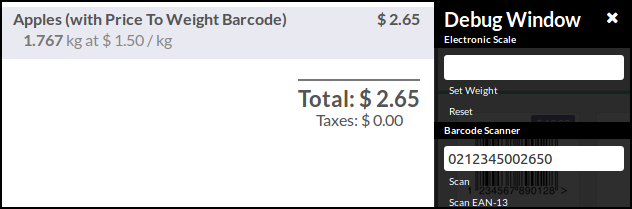
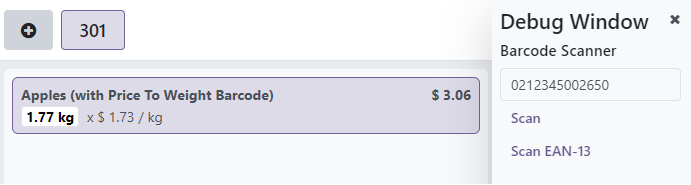
[MIG] pos_price_to_weight: Migration to 18.0

diff --git a/pos_price_to_weight/static/description/index.html b/pos_price_to_weight/static/description/index.html
@@ -367,72 +367,57 @@ ul.auto-toc {
 !! This file is generated by oca-gen-addon-readme !!
 !! changes will be overwritten.                   !!
 !!!!!!!!!!!!!!!!!!!!!!!!!!!!!!!!!!!!!!!!!!!!!!!!!!!!
-!! source digest: sha256:560fba5744d4ecfa61a34ce39fd3a7467f7f6296c1b76f2c3153127150a0f4e0
+!! source digest: sha256:4e53c60a9d81e5b3291f81f5a4ec69fd122d4b72eda6beb8a999c1f1bb122db6
 !!!!!!!!!!!!!!!!!!!!!!!!!!!!!!!!!!!!!!!!!!!!!!!!!!!! -->
-<p><a class="reference external image-reference" href="https://odoo-community.org/page/development-status"><img alt="Beta" src="https://img.shields.io/badge/maturity-Beta-yellow.png" /></a> <a class="reference external image-reference" href="http://www.gnu.org/licenses/agpl-3.0-standalone.html"><img alt="License: AGPL-3" src="https://img.shields.io/badge/licence-AGPL--3-blue.png" /></a> <a class="reference external image-reference" href="https://github.com/OCA/pos/tree/16.0/pos_price_to_weight"><img alt="OCA/pos" src="https://img.shields.io/badge/github-OCA%2Fpos-lightgray.png?logo=github" /></a> <a class="reference external image-reference" href="https://translation.odoo-community.org/projects/pos-16-0/pos-16-0-pos_price_to_weight"><img alt="Translate me on Weblate" src="https://img.shields.io/badge/weblate-Translate%20me-F47D42.png" /></a> <a class="reference external image-reference" href="https://runboat.odoo-community.org/builds?repo=OCA/pos&amp;target_branch=16.0"><img alt="Try me on Runboat" src="https://img.shields.io/badge/runboat-Try%20me-875A7B.png" /></a></p>
-<p>This module extends Odoo Point Of Sale features, to allow to scan barcode
-with price and to compute according quantity.</p>
+<p><a class="reference external image-reference" href="https://odoo-community.org/page/development-status"><img alt="Beta" src="https://img.shields.io/badge/maturity-Beta-yellow.png" /></a> <a class="reference external image-reference" href="http://www.gnu.org/licenses/agpl-3.0-standalone.html"><img alt="License: AGPL-3" src="https://img.shields.io/badge/licence-AGPL--3-blue.png" /></a> <a class="reference external image-reference" href="https://github.com/OCA/pos/tree/18.0/pos_price_to_weight"><img alt="OCA/pos" src="https://img.shields.io/badge/github-OCA%2Fpos-lightgray.png?logo=github" /></a> <a class="reference external image-reference" href="https://translation.odoo-community.org/projects/pos-18-0/pos-18-0-pos_price_to_weight"><img alt="Translate me on Weblate" src="https://img.shields.io/badge/weblate-Translate%20me-F47D42.png" /></a> <a class="reference external image-reference" href="https://runboat.odoo-community.org/builds?repo=OCA/pos&amp;target_branch=18.0"><img alt="Try me on Runboat" src="https://img.shields.io/badge/runboat-Try%20me-875A7B.png" /></a></p>
+<p>This module extends Odoo Point Of Sale features, to allow to scan
+barcode with price and to compute according quantity.</p>
 <p>In Odoo by default, there are three types of barcode rules for products.</p>
 <ul class="simple">
-<li>‘Unit Product’ (<tt class="docutils literal">type=product</tt>). Scanning a product will add a unit of this
-product to the current order.</li>
-<li>‘Priced product’ (<tt class="docutils literal">type=price</tt>). A price is extracted from the barcode, and
-a new line with the given price and a quantity = 1 is added to the current
-order.</li>
-<li>‘Weighted product’ (<tt class="docutils literal">type=weight</tt>). A weight is extracted from the barcode,
-and a new line with the given weight, and a computed price
+<li>‘Unit Product’ (<tt class="docutils literal">type=product</tt>). Scanning a product will add a unit
+of this product to the current order.</li>
+<li>‘Priced product’ (<tt class="docutils literal">type=price</tt>). A price is extracted from the
+barcode, and a new line with the given price and a quantity = 1 is
+added to the current order.</li>
+<li>‘Weighted product’ (<tt class="docutils literal">type=weight</tt>). A weight is extracted from the
+barcode, and a new line with the given weight, and a computed price
 (quantity * Unit price) is added to the current order.</li>
 </ul>
 <p>This module add a new option:</p>
 <ul class="simple">
-<li>‘Priced Product (Computed Weight)’ (<tt class="docutils literal">type=price_to_weight</tt>). A price is
-extracted from the barcode, and a new line with the given price, and a
-computed quantity (Price / Unit Price) is added to the current order.</li>
+<li>‘Priced Product (Computed Weight)’ (<tt class="docutils literal">type=price_to_weight</tt>). A price
+is extracted from the barcode, and a new line with the given price,
+and a computed quantity (Price / Unit Price) is added to the current
+order.</li>
 </ul>
-<p>This module is usefull in shops with products scaled, to manage correctly
-stock quantities.</p>
+<p>This module is usefull in shops with products scaled, to manage
+correctly stock quantities.</p>
 <p><strong>Samples</strong></p>
 <ul class="simple">
 <li>Given a product with a unit price of 1,50€ / kg</li>
-<li><dl class="first docutils">
-<dt>The barcode is 0212345{NNNDD}x where:</dt>
-<dd><ul class="first last">
+<li>The barcode is 0212345{NNNDD}x where:<ul>
 <li>02 is the prefix of the barcode rule</li>
 <li>12345 is the product number</li>
 <li>{NNNDD} is the price of the scaled product</li>
 <li>x is the control digit</li>
 </ul>
-</dd>
-</dl>
 </li>
 <li>On the product we so set ‘0212345000007’ in the barcode field.</li>
-<li><dl class="first docutils">
-<dt>if the scanned barcode is 0212345002650:</dt>
-<dd><ul class="first last">
+<li>if the scanned barcode is 0212345002650:<ul>
 <li>{NNNDD} is 00265, the price is so 2,65€</li>
 <li>the according quantity is 2,65€ / 1,5 €/kg = 1,767 kg</li>
 </ul>
-</dd>
-</dl>
 </li>
 </ul>
-<div class="figure">
-<img alt="https://raw.githubusercontent.com/OCA/pos/16.0/pos_price_to_weight/static/description/pos_test_1.png" src="https://raw.githubusercontent.com/OCA/pos/16.0/pos_price_to_weight/static/description/pos_test_1.png" />
-</div>
+<p><img alt="POS Test 1" src="https://raw.githubusercontent.com/OCA/pos/18.0/pos_price_to_weight/static/description/pos_test_1.png" /></p>
 <ul class="simple">
-<li><dl class="first docutils">
-<dt>if the scanned barcode is 0212345008102:</dt>
-<dd><ul class="first last">
+<li>if the scanned barcode is 0212345008102:<ul>
 <li>{NNNDD} is 00810, the price is so 8,10€</li>
 <li>the according quantity is 8,10€ / 1,5 €/kg = 5,400 kg</li>
 </ul>
-</dd>
-</dl>
 </li>
 </ul>
-<div class="figure">
-<img alt="https://raw.githubusercontent.com/OCA/pos/16.0/pos_price_to_weight/static/description/pos_test_2.png" src="https://raw.githubusercontent.com/OCA/pos/16.0/pos_price_to_weight/static/description/pos_test_2.png" />
-</div>
+<p><img alt="POS Test 2" src="https://raw.githubusercontent.com/OCA/pos/18.0/pos_price_to_weight/static/description/pos_test_2.png" /></p>
 <p><strong>Table of contents</strong></p>
 <div class="contents local topic" id="contents">
 <ul class="simple">
@@ -450,19 +435,17 @@ stock quantities.</p>
 <div class="section" id="configuration">
 <h1><a class="toc-backref" href="#toc-entry-1">Configuration</a></h1>
 <ul class="simple">
-<li>Go to Point of Sale &gt; Configuration &gt; Barcode Nomenclatures</li>
+<li>Go to Inventory &gt; Configuration &gt; Barcode Nomenclatures</li>
 <li>Edit your barcode rules, according to your barcodes settings</li>
 </ul>
-<div class="figure">
-<img alt="https://raw.githubusercontent.com/OCA/pos/16.0/pos_price_to_weight/static/description/barcode_rule.png" src="https://raw.githubusercontent.com/OCA/pos/16.0/pos_price_to_weight/static/description/barcode_rule.png" />
-</div>
+<p><img alt="Barcode Rule" src="https://raw.githubusercontent.com/OCA/pos/18.0/pos_price_to_weight/static/description/barcode_rule.png" /></p>
 </div>
 <div class="section" id="bug-tracker">
 <h1><a class="toc-backref" href="#toc-entry-2">Bug Tracker</a></h1>
 <p>Bugs are tracked on <a class="reference external" href="https://github.com/OCA/pos/issues">GitHub Issues</a>.
 In case of trouble, please check there if your issue has already been reported.
 If you spotted it first, help us to smash it by providing a detailed and welcomed
-<a class="reference external" href="https://github.com/OCA/pos/issues/new?body=module:%20pos_price_to_weight%0Aversion:%2016.0%0A%0A**Steps%20to%20reproduce**%0A-%20...%0A%0A**Current%20behavior**%0A%0A**Expected%20behavior**">feedback</a>.</p>
+<a class="reference external" href="https://github.com/OCA/pos/issues/new?body=module:%20pos_price_to_weight%0Aversion:%2018.0%0A%0A**Steps%20to%20reproduce**%0A-%20...%0A%0A**Current%20behavior**%0A%0A**Expected%20behavior**">feedback</a>.</p>
 <p>Do not contact contributors directly about support or help with technical issues.</p>
 </div>
 <div class="section" id="credits">
@@ -477,7 +460,12 @@ If you spotted it first, help us to smash it by providing a detailed and welcome
 <div class="section" id="contributors">
 <h2><a class="toc-backref" href="#toc-entry-5">Contributors</a></h2>
 <ul class="simple">
-<li>Sylvain LE GAL &lt;<a class="reference external" href="https://twitter.com/legalsylvain">https://twitter.com/legalsylvain</a>&gt;</li>
+<li>Sylvain LE GAL
+&lt;<a class="reference external" href="https://twitter.com/legalsylvain&gt;">https://twitter.com/legalsylvain\&gt;</a></li>
+<li><a class="reference external" href="https://trobz.com">Trobz</a>:<ul>
+<li>Linh (Nguyen Ngoc) &lt;<a class="reference external" href="mailto:linhnn&#64;trobz.com">linhnn&#64;trobz.com</a>&gt;</li>
+</ul>
+</li>
 </ul>
 </div>
 <div class="section" id="other-credits">
@@ -493,7 +481,7 @@ If you spotted it first, help us to smash it by providing a detailed and welcome
 <p>OCA, or the Odoo Community Association, is a nonprofit organization whose
 mission is to support the collaborative development of Odoo features and
 promote its widespread use.</p>
-<p>This module is part of the <a class="reference external" href="https://github.com/OCA/pos/tree/16.0/pos_price_to_weight">OCA/pos</a> project on GitHub.</p>
+<p>This module is part of the <a class="reference external" href="https://github.com/OCA/pos/tree/18.0/pos_price_to_weight">OCA/pos</a> project on GitHub.</p>
 <p>You are welcome to contribute. To learn how please visit <a class="reference external" href="https://odoo-community.org/page/Contribute">https://odoo-community.org/page/Contribute</a>.</p>
 </div>
 </div>

diff --git a/pos_price_to_weight/static/src/js/pos_order_line.esm.js b/pos_price_to_weight/static/src/js/pos_order_line.esm.js
@@ -1,0 +1,45 @@
+/*
+    Copyright (C) 2024 - Today: GRAP (http://www.grap.coop)
+    @author: Sylvain LE GAL (https://twitter.com/legalsylvain)
+    License AGPL-3.0 or later (http://www.gnu.org/licenses/agpl.html).
+*/
+import {patch} from "@web/core/utils/patch";
+import {PosOrderline} from "@point_of_sale/app/models/pos_order_line";
+
+patch(PosOrderline.prototype, {
+    setOptions(options) {
+        if (options.uiState) {
+            this.uiState = {...this.uiState, ...options.uiState};
+        }
+
+        if (options.code) {
+            const code = options.code;
+            const blockMerge = ["weight", "quantity", "discount"];
+            const product_packaging_by_barcode =
+                this.models["product.packaging"].getAllBy("barcode");
+
+            if (blockMerge.includes(code.type)) {
+                this.set_quantity(code.value);
+            } else if (code.type === "price") {
+                this.set_unit_price(code.value);
+                this.price_type = "manual";
+            } else if (code.type === "price_to_weight") {
+                this.set_unit_price(code.value);
+                let quantity = 0;
+                const barcode_price = parseFloat(code.value) || 0;
+                const product_price = this.get_lst_price();
+                if (product_price !== 0) {
+                    quantity = barcode_price / product_price;
+                }
+                this.set_quantity(quantity);
+                this.price_type = "manual";
+            }
+
+            if (product_packaging_by_barcode[code.code]) {
+                this.set_quantity(product_packaging_by_barcode[code.code].qty);
+            }
+        }
+
+        this.set_unit_price(this.price_unit);
+    },
+});

diff --git a/pos_price_to_weight/static/src/js/product_screen.esm.js b/pos_price_to_weight/static/src/js/product_screen.esm.js
@@ -1,0 +1,17 @@
+/*
+    Copyright (C) 2024 - Today: GRAP (http://www.grap.coop)
+    @author: Sylvain LE GAL (https://twitter.com/legalsylvain)
+    License AGPL-3.0 or later (http://www.gnu.org/licenses/agpl.html).
+*/
+import {patch} from "@web/core/utils/patch";
+import {ProductScreen} from "@point_of_sale/app/screens/product_screen/product_screen";
+import {useBarcodeReader} from "@point_of_sale/app/barcode/barcode_reader_hook";
+
+patch(ProductScreen.prototype, {
+    setup() {
+        super.setup();
+        useBarcodeReader({
+            price_to_weight: this._barcodeProductAction,
+        });
+    },
+});

diff --git a/pos_price_to_weight/__manifest__.py b/pos_price_to_weight/__manifest__.py
@@ -5,7 +5,7 @@
 
 {
     "name": "Point of Sale - Price to Weight",
-    "version": "16.0.1.0.0",
+    "version": "18.0.1.0.0",
     "category": "Point Of Sale",
     "summary": "Compute weight based on barcodes with prices",
     "author": "La Louve, GRAP, Odoo Community Association (OCA)",
@@ -18,8 +18,9 @@
         "demo/product_product.xml",
     ],
     "assets": {
-        "point_of_sale.assets": [
-            "pos_price_to_weight/static/src/js/ProductScreen.js",
+        "point_of_sale._assets_pos": [
+            "pos_price_to_weight/static/src/js/pos_order_line.esm.js",
+            "pos_price_to_weight/static/src/js/product_screen.esm.js",
         ],
     },
     "installable": True,

diff --git a/pos_price_to_weight/README.rst b/pos_price_to_weight/README.rst
@@ -7,7 +7,7 @@ Point of Sale - Price to Weight
    !! This file is generated by oca-gen-addon-readme !!
    !! changes will be overwritten.                   !!
    !!!!!!!!!!!!!!!!!!!!!!!!!!!!!!!!!!!!!!!!!!!!!!!!!!!!
-   !! source digest: sha256:560fba5744d4ecfa61a34ce39fd3a7467f7f6296c1b76f2c3153127150a0f4e0
+   !! source digest: sha256:4e53c60a9d81e5b3291f81f5a4ec69fd122d4b72eda6beb8a999c1f1bb122db6
    !!!!!!!!!!!!!!!!!!!!!!!!!!!!!!!!!!!!!!!!!!!!!!!!!!!!
 
 .. |badge1| image:: https://img.shields.io/badge/maturity-Beta-yellow.png
@@ -70,17 +70,17 @@ correctly stock quantities.
   - {NNNDD} is 00265, the price is so 2,65€
   - the according quantity is 2,65€ / 1,5 €/kg = 1,767 kg
 
-|image1|
+|POS Test 1|
 
 - if the scanned barcode is 0212345008102:
 
   - {NNNDD} is 00810, the price is so 8,10€
   - the according quantity is 8,10€ / 1,5 €/kg = 5,400 kg
 
-|image2|
+|POS Test 2|
 
-.. |image1| image:: https://raw.githubusercontent.com/OCA/pos/18.0/pos_price_to_weight/static/description/pos_test_1.png
-.. |image2| image:: https://raw.githubusercontent.com/OCA/pos/18.0/pos_price_to_weight/static/description/pos_test_2.png
+.. |POS Test 1| image:: https://raw.githubusercontent.com/OCA/pos/18.0/pos_price_to_weight/static/description/pos_test_1.png
+.. |POS Test 2| image:: https://raw.githubusercontent.com/OCA/pos/18.0/pos_price_to_weight/static/description/pos_test_2.png
 
 **Table of contents**
 
@@ -90,12 +90,12 @@ correctly stock quantities.
 Configuration
 =============
 
-- Go to Point of Sale > Configuration > Barcode Nomenclatures
+- Go to Inventory > Configuration > Barcode Nomenclatures
 - Edit your barcode rules, according to your barcodes settings
 
-|image1|
+|Barcode Rule|
 
-.. |image1| image:: https://raw.githubusercontent.com/OCA/pos/18.0/pos_price_to_weight/static/description/barcode_rule.png
+.. |Barcode Rule| image:: https://raw.githubusercontent.com/OCA/pos/18.0/pos_price_to_weight/static/description/barcode_rule.png
 
 Bug Tracker
 ===========
@@ -121,6 +121,9 @@ Contributors
 
 - Sylvain LE GAL
   <`https://twitter.com/legalsylvain\\> <https://twitter.com/legalsylvain\>>`__
+- `Trobz <https://trobz.com>`__:
+
+  - Linh (Nguyen Ngoc) <linhnn@trobz.com>
 
 Other credits
 -------------

diff --git a/pos_price_to_weight/readme/DESCRIPTION.md b/pos_price_to_weight/readme/DESCRIPTION.md
@@ -26,7 +26,7 @@ correctly stock quantities.
 
 - Given a product with a unit price of 1,50€ / kg
 
-- The barcode is 0212345{NNNDD}x where:  
+- The barcode is 0212345{NNNDD}x where:
   - 02 is the prefix of the barcode rule
   - 12345 is the product number
   - {NNNDD} is the price of the scaled product
@@ -34,14 +34,14 @@ correctly stock quantities.
 
 - On the product we so set '0212345000007' in the barcode field.
 
-- if the scanned barcode is 0212345002650:  
+- if the scanned barcode is 0212345002650:
   - {NNNDD} is 00265, the price is so 2,65€
   - the according quantity is 2,65€ / 1,5 €/kg = 1,767 kg
 
-![](../static/description/pos_test_1.png)
+![POS Test 1](../static/description/pos_test_1.png)
 
-- if the scanned barcode is 0212345008102:  
+- if the scanned barcode is 0212345008102:
   - {NNNDD} is 00810, the price is so 8,10€
   - the according quantity is 8,10€ / 1,5 €/kg = 5,400 kg
 
-![](../static/description/pos_test_2.png)
+![POS Test 2](../static/description/pos_test_2.png)

diff --git a/pos_price_to_weight/readme/CONFIGURE.md b/pos_price_to_weight/readme/CONFIGURE.md
@@ -1,4 +1,4 @@
-- Go to Point of Sale \> Configuration \> Barcode Nomenclatures
+- Go to Inventory \> Configuration \> Barcode Nomenclatures
 - Edit your barcode rules, according to your barcodes settings
 
-![](../static/description/barcode_rule.png)
+![Barcode Rule](../static/description/barcode_rule.png)

diff --git a/pos_price_to_weight/readme/CONTRIBUTORS.md b/pos_price_to_weight/readme/CONTRIBUTORS.md
@@ -1,1 +1,3 @@
 - Sylvain LE GAL \<https://twitter.com/legalsylvain\>
+- [Trobz](https://trobz.com):
+  - Linh (Nguyen Ngoc) \<<linhnn@trobz.com>\>
